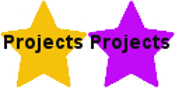
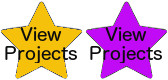
list all completed projects

diff --git a/projects.html b/projects.html
@@ -7,7 +7,19 @@
   <title>Projects</title>
 </head>
 <body>
-  <ol>
-    <li></li>
+  <ol class="projects">
+    <li><a href="../aireannas-gallery/aireannas-gallery.html">Aireanna's Gallery</a></li>
+    <li><a href="../american-flag/american-flag.html">The American Flag</a></li>
+    <li><a href="../contact-info/contact-info.html">Contact Page</a></li>
+    <li><a href="../courses-status/courses-status.html">Check Status of Courses</a></li>
+    <li><a href="../crab-walk/crab-walk.html">Crab Walk</a></li>
+    <li><a href="../create-checklist/create-checklist.html">Checklist Creator</a></li>
+    <li><a href="../favorited/example/example.html">Save to Favorites</a></li>
+    <li><a href="../natural-nellies/fire-cider.html">Shop Page</a></li>
+    <li><a href="../promptbox/dayprompt.html">"How was your day?"</a></li>
+    <li><a href="../promptbox/seasonprompt.html">"What is your favorite season?"</a></li>
+    <li><a href="../temperature%20conversion/tempconvert.html">Temperature Converter</a></li>
+    <li><a href=""></a></li>
+  </ol>
 </body>
 </html>

diff --git a/nellieann.css b/nellieann.css
@@ -36,8 +36,8 @@ h1 {
 a.projects {
 	margin: auto;
 	z-index: 100;
-	width: 87px;
-	height: 88px;
+	width: 83px;
+	height: 83px;
 	background-image: url("star-gold-purple.jpg");
 	background-repeat: no-repeat;
 	background-position: 0 0;
@@ -45,7 +45,7 @@ a.projects {
 }
 
 a.projects:hover {
-	background-position: -87px 0;
+	background-position: -84px 0;
 }
 
 .links a {
